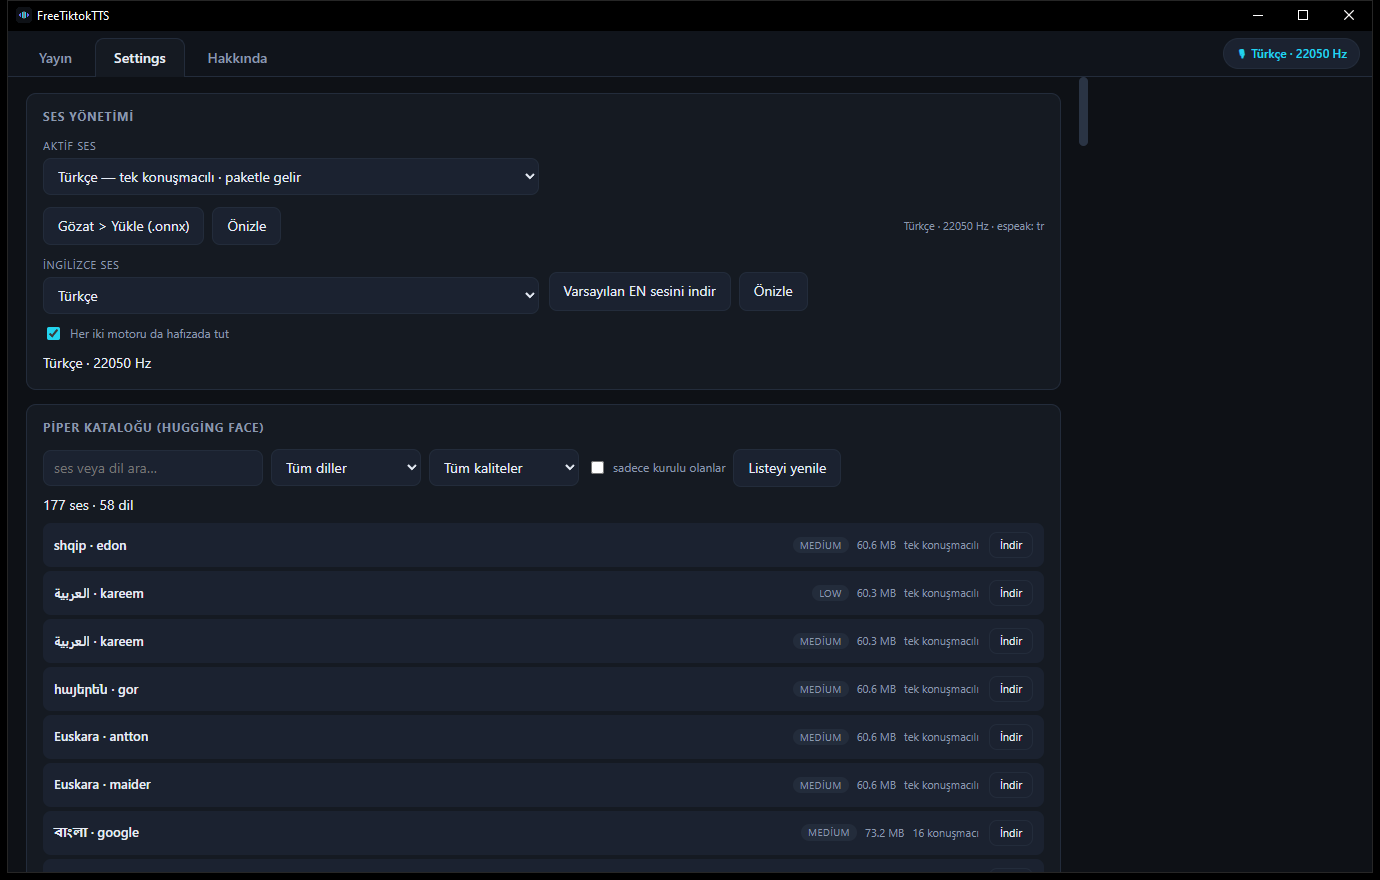
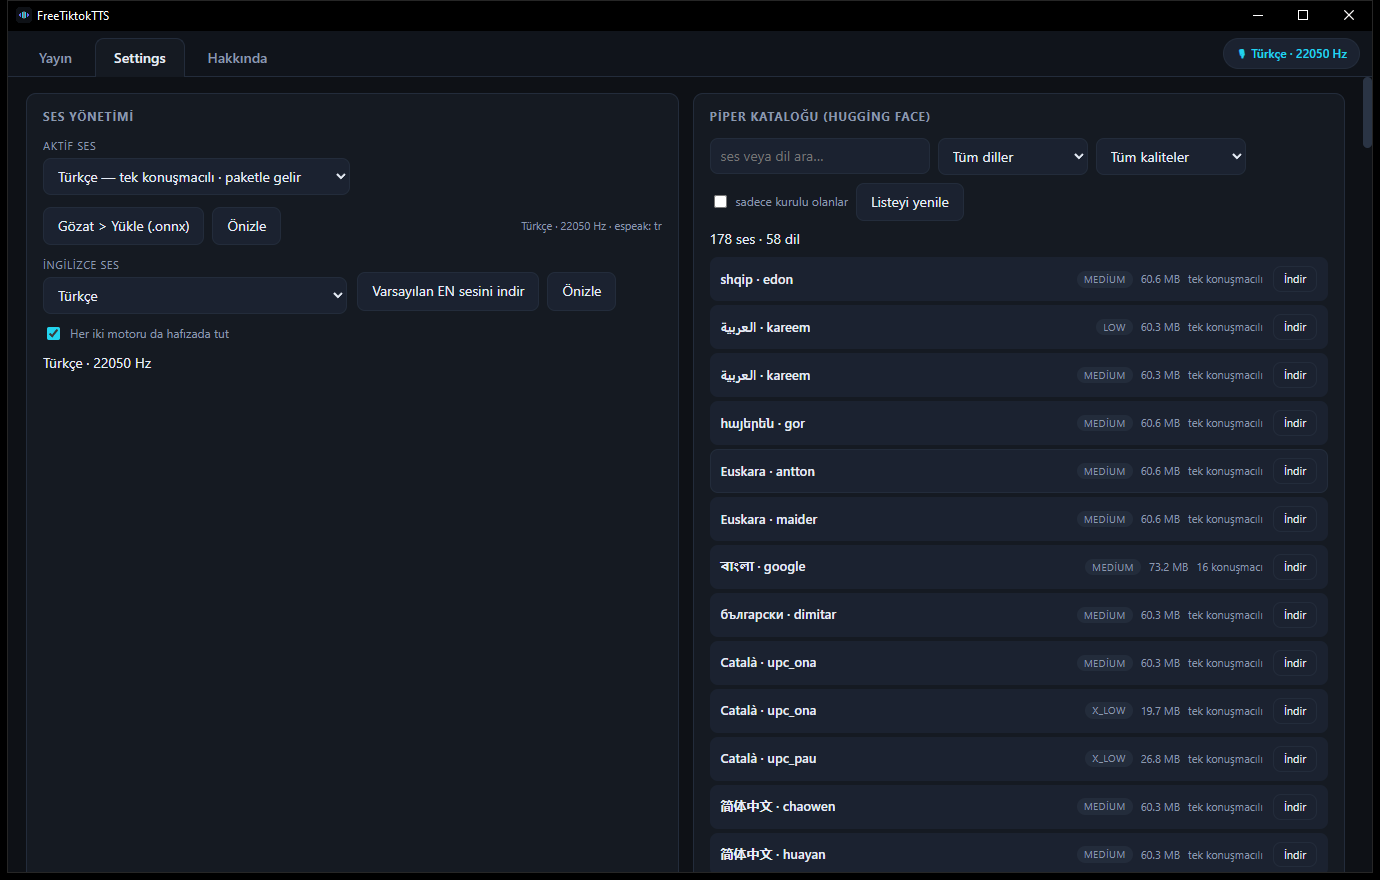
Settings/Hakkinda sag bosluk giderildi: 2 kolonlu duyarli kart gridi + 1.2.2 + yeni tanitim kareleri

diff --git a/src/renderer/styles.css b/src/renderer/styles.css
@@ -174,7 +174,6 @@ button.primary:hover:not(:disabled) { filter: brightness(1.08); }
 .hint { text-transform: none; letter-spacing: 0; font-weight: 400; }
 
 /* ---------- Hakkında sekmesi ---------- */
-.about-wrap { max-width: 760px; }
 .about-hero { display: flex; align-items: center; gap: 18px; }
 .about-hero .about-logo { width: 76px; height: 76px; flex-shrink: 0; border-radius: 18px; border: 1px solid var(--border); }
 .about-hero .about-name { margin: 0 0 4px; font-size: 22px; letter-spacing: .3px; }
@@ -362,11 +361,14 @@ input[type="range"]::-moz-range-thumb {
 .settings-wrap {
   overflow-y: auto;
   padding: 16px 18px 28px;
-  display: flex;
-  flex-direction: column;
+  display: grid;
+  grid-template-columns: repeat(auto-fit, minmax(460px, 1fr));
+  align-content: start;
   gap: 14px;
-  max-width: 1080px;
 }
+
+/* Tek kalan kart bos hucre birakmasin: son kart tum satiri kaplar. */
+#tab-settings .settings-wrap > section:last-child { grid-column: 1 / -1; }
 .card {
   background: var(--bg-panel);
   border: 1px solid var(--border);
